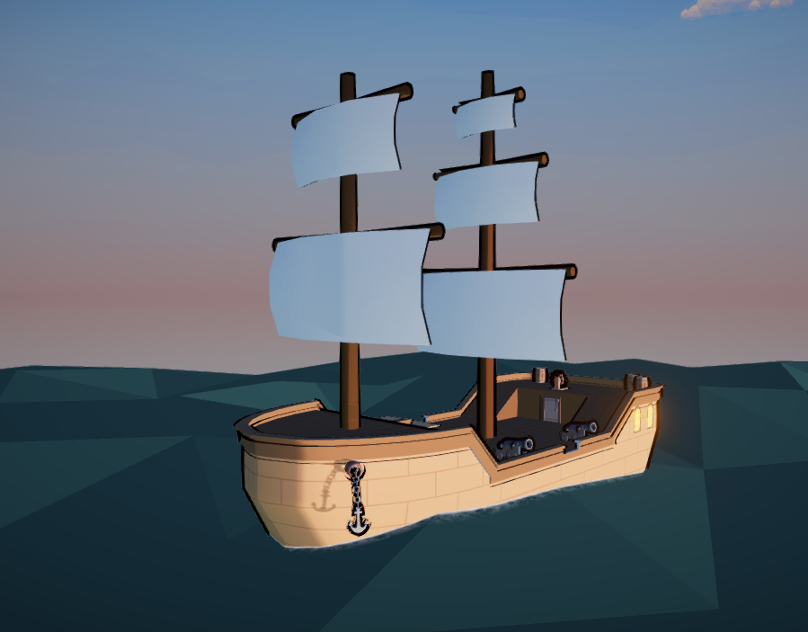
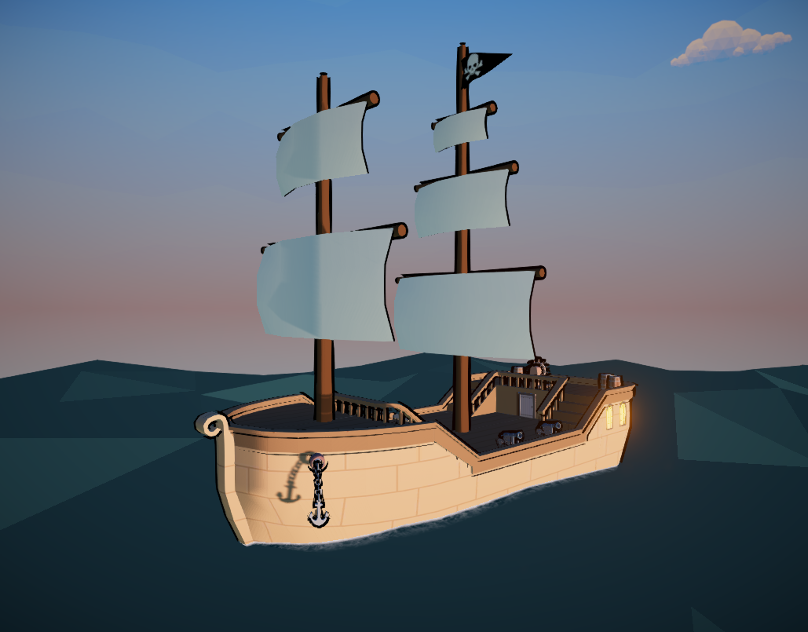
Updated dreamescape project

diff --git a/ProjectHTML/dreamescape.html b/ProjectHTML/dreamescape.html
@@ -23,8 +23,8 @@
         <p>The main model for the first level is a pirate ship. We decided on a simplistic/cartoonish style for the game, so I created the model in Blender and textured it in Substance Painter to fit the theme. After importing the model into Unity, I added a toon shader along with some low poly assets from Unity's asset store to really bring the scene together</p>
         
         <div class="imageContainer">
-            <img src="../media/DreamEscape/pirate%20ship%20v2%20screenshot1.png" alt="overdrive skin 1">
-            <img src="../media/DreamEscape/pirate%20ship%20v2%20screenshot2.png" alt="overdrive skin 1">
+            <img src="../media/DreamEscape/pirate%20ship%20v3%20screenshot.png" alt="Ship Screenshot 1">
+            <img src="../media/DreamEscape/pirate%20ship%20v3%20screenshot2.png" alt="Ship Screenshot 2">
         </div>
         <p class="caption">current version of the pirate ship scene</p>
         
@@ -32,7 +32,7 @@
         
         <p>One of the assets I created is a cannon, which is animated using shape keys in Blender. I also created a particle effect system to go along with it in Unity</p>
         
-        <video width="320" height="240" autoplay loop>
+        <video width="320" height="240" autoplay muted loop>
         <source src="../media/DreamEscape/Cannon%20Animation%20Demo.mp4" type="video/mp4">
         whoops, your browser does not support videos :/
         </video>
